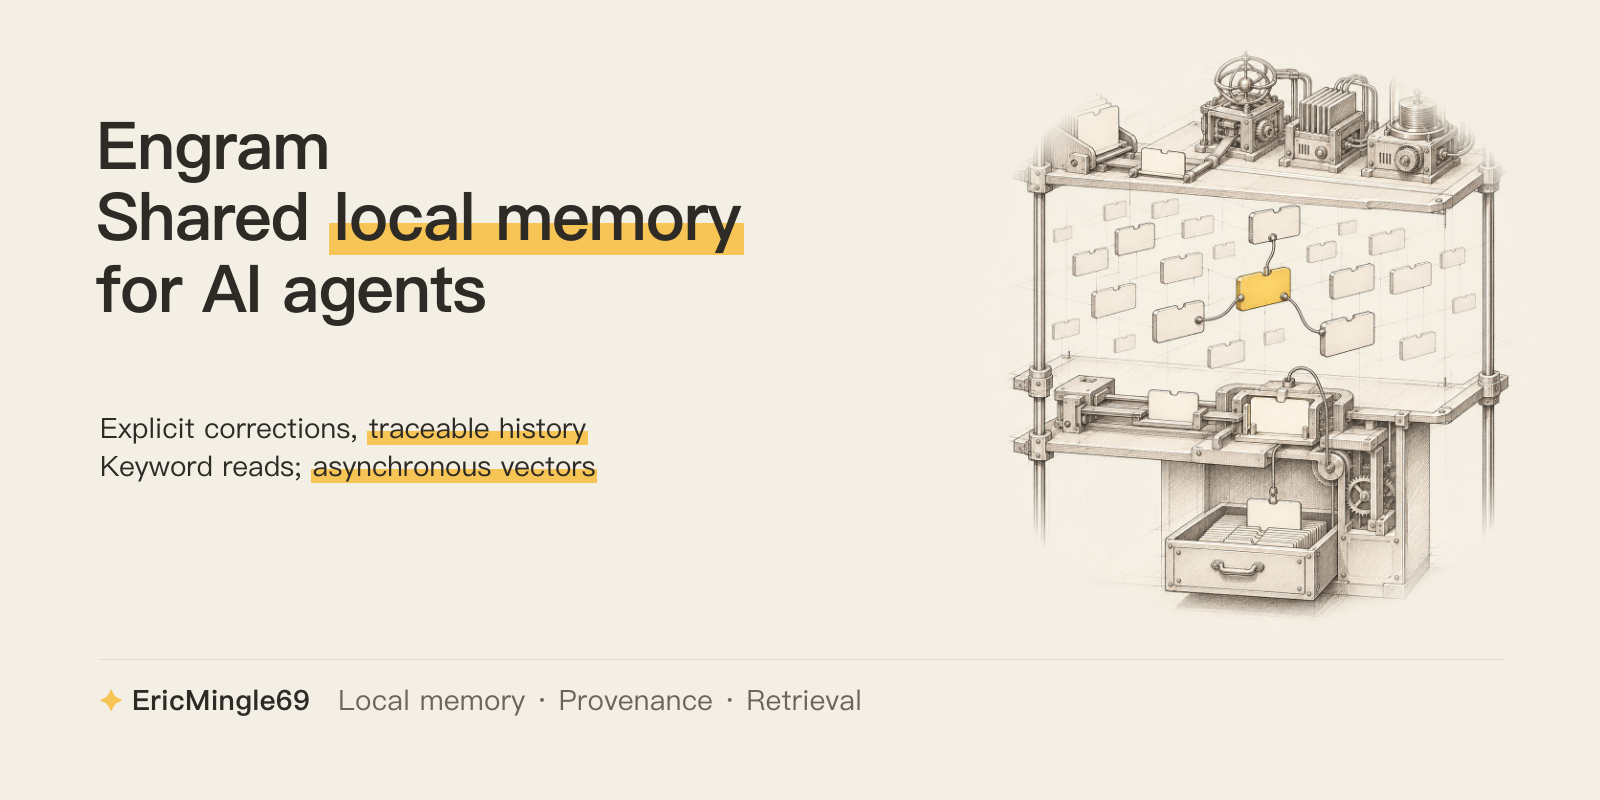
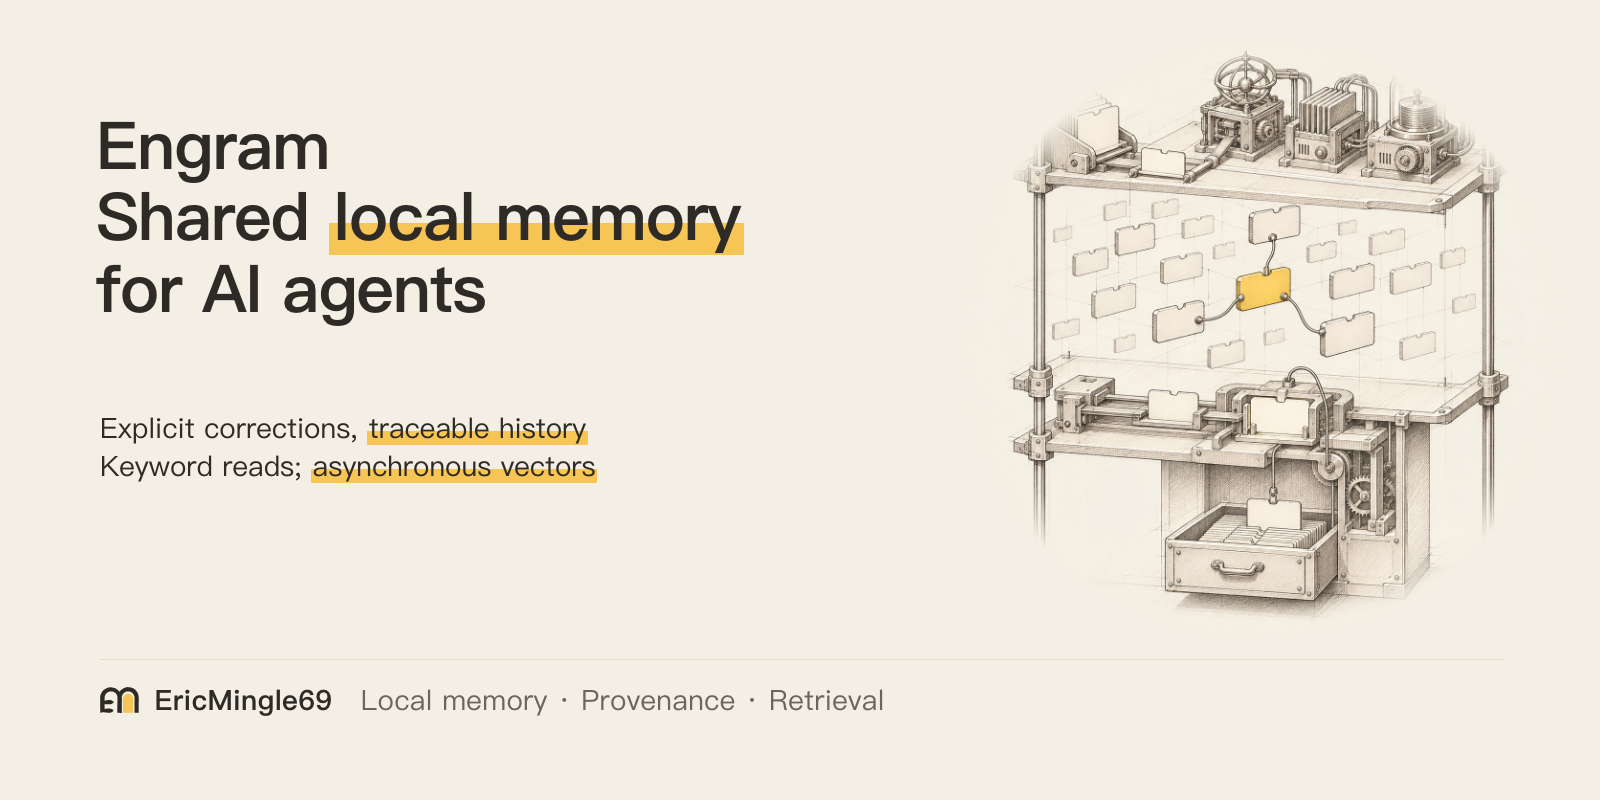
docs: adopt theme-aware EM signature for 0.4.2

Changed region(s): [[0.0625, 0.8438, 0.5625, 0.9062]]

diff --git a/scripts/publication_check.py b/scripts/publication_check.py
@@ -41,7 +41,7 @@ TEXT_SUFFIXES = frozenset({
     ".js", ".mjs", ".cjs", ".ts", ".tsx", ".jsx", ".svg", ".sql",
 })
 # Reviewed generated covers only; any changed image requires visual review.
[2 lines of base64/hex data omitted]
 
 TEXT_NAMES = frozenset({"LICENSE", "NOTICE", "COPYING", "Makefile", ".gitignore", ".gitattributes", ".editorconfig", ".python-version"})
 UUID = re.compile(r"\b[0-9a-f]{8}-[0-9a-f]{4}-[0-9a-f]{4}-[0-9a-f]{4}-[0-9a-f]{12}\b", re.IGNORECASE)

diff --git a/tests/test_mcp_profiles.py b/tests/test_mcp_profiles.py
@@ -171,7 +171,7 @@ def test_official_sdk_stdio_profile(tmp_path):
                     result = await session.initialize()
                     assert result.serverInfo.name == "engram-claude"
                     assert result.serverInfo.title == "Engram Claude"
-                    assert result.serverInfo.version == "0.4.1"
+                    assert result.serverInfo.version == "0.4.2"
                     listed = await session.list_tools()
                     assert {item.name for item in listed.tools} == {
                         item["name"] for item in tool_descriptors()

diff --git a/tests/test_mcp_claude_remote.py b/tests/test_mcp_claude_remote.py
@@ -58,7 +58,7 @@ def test_http_profile_identity_and_shared_data(tmp_path):
             )
             expected_name = "engram-claude" if profile == "claude" else "engram"
             assert initialized["serverInfo"]["name"] == expected_name
-            assert initialized["serverInfo"]["version"] == "0.4.1"
+            assert initialized["serverInfo"]["version"] == "0.4.2"
             if profile == "claude":
                 assert initialized["instructions"] == CLAUDE_PROFILE.instructions
                 saved = call(client, "remember", {"body": "isolated shared profile"})

diff --git a/src/engram/mcp/server.py b/src/engram/mcp/server.py
@@ -22,7 +22,7 @@ from engram.mcp.tools import ToolContext, call_tool, tool_descriptors
 
 PROTOCOL_VERSION = "2025-06-18"
 SERVER_NAME = "engram"
-SERVER_VERSION = "0.4.1"
+SERVER_VERSION = "0.4.2"
 INSTRUCTIONS = DEFAULT_PROFILE.instructions
 
 PARSE_ERROR = -32700

diff --git a/README.en.md b/README.en.md
@@ -6,7 +6,7 @@
 <p align="center"><a href="docs/architecture.md">Architecture</a> · <a href="docs/research-directions.md">Research</a> · <a href="CHANGELOG.md">Changelog</a> · <a href="CONTRIBUTING.md">Contributing</a></p>
 <p align="center">
 <img alt="MIT" src="https://img.shields.io/badge/license-MIT-F6C555?style=flat-square&amp;labelColor=2E2A26">
-<img alt="Version" src="https://img.shields.io/badge/version-0.4.1-6B655C?style=flat-square&amp;labelColor=2E2A26">
+<img alt="Version" src="https://img.shields.io/badge/version-0.4.2-6B655C?style=flat-square&amp;labelColor=2E2A26">
 <img alt="Python" src="https://img.shields.io/badge/Python-3.13%2B-6B655C?style=flat-square&amp;labelColor=2E2A26">
 <img alt="SQLite" src="https://img.shields.io/badge/storage-SQLite-A8A196?style=flat-square&amp;labelColor=2E2A26">
 </p>
@@ -14,9 +14,9 @@
 
 # Engram · Shared local knowledge for agents
 
-Engram 0.4.1 keeps long-term knowledge in a local SQLite database shared by different agents. Writers provide content; classification and vectors are completed later. Explicit corrections preserve provenance while reads distinguish currently applicable information from original history.
+Engram 0.4.2 keeps long-term knowledge in a local SQLite database shared by different agents. Writers provide content; classification and vectors are completed later. Explicit corrections preserve provenance while reads distinguish currently applicable information from original history.
 
-Earlier public code declared 0.1.0 and had no formal release tags. Version 0.4.0 first packaged the current core as public source; 0.4.1 updates only CI, documentation, and its publication checks. Intermediate development is described as milestones, without inventing 0.2/0.3 releases. See the [changelog](CHANGELOG.md), [architecture](docs/architecture.md), [evolution](docs/evolution.md), and [research directions](docs/research-directions.md).
+Earlier public code declared 0.1.0 and had no formal release tags. Version 0.4.0 first packaged the current core as public source; 0.4.1 updated CI, documentation, and its publication checks, and 0.4.2 updates the signature and covers. Intermediate development is described as milestones, without inventing 0.2/0.3 releases. See the [changelog](CHANGELOG.md), [architecture](docs/architecture.md), [evolution](docs/evolution.md), and [research directions](docs/research-directions.md).
 
 
 ## Features
@@ -145,7 +145,7 @@ readme-assets/ Cover assets
 
 ---
 
-Documentation: **✦ EricMingle69** · [Ming-Sir-69](https://github.com/Ming-Sir-69)
+Maintained by <picture><source media="(prefers-color-scheme: dark)" srcset="readme-assets/em-logo-dark.svg"><img src="readme-assets/em-logo-light.svg" alt="EM" height="13"></picture> <b>EricMingle69</b> · <a href="https://github.com/Ming-Sir-69">Ming-Sir-69</a><br>
 
 [MIT License](LICENSE) · Copyright (c) 2026 Eric Mingle.
 

diff --git a/README.md b/README.md
@@ -6,7 +6,7 @@
 <p align="center"><a href="docs/architecture.md">架构</a> · <a href="docs/research-directions.md">研究方向</a> · <a href="CHANGELOG.md">版本记录</a> · <a href="CONTRIBUTING.md">贡献</a></p>
 <p align="center">
 <img alt="MIT" src="https://img.shields.io/badge/license-MIT-F6C555?style=flat-square&amp;labelColor=2E2A26">
-<img alt="Version" src="https://img.shields.io/badge/version-0.4.1-6B655C?style=flat-square&amp;labelColor=2E2A26">
+<img alt="Version" src="https://img.shields.io/badge/version-0.4.2-6B655C?style=flat-square&amp;labelColor=2E2A26">
 <img alt="Python" src="https://img.shields.io/badge/Python-3.13%2B-6B655C?style=flat-square&amp;labelColor=2E2A26">
 <img alt="SQLite" src="https://img.shields.io/badge/storage-SQLite-A8A196?style=flat-square&amp;labelColor=2E2A26">
 </p>
@@ -14,9 +14,9 @@
 
 # Engram · Agent 共用本地知识库
 
-Engram 0.4.1 把长期知识保存在本机 SQLite 中，供不同 Agent 使用同一份事实源。写入方提供内容，分类与向量在后续补全；明确纠正形成可追溯关系，读取时区分当前适用内容与历史原文。
+Engram 0.4.2 把长期知识保存在本机 SQLite 中，供不同 Agent 使用同一份事实源。写入方提供内容，分类与向量在后续补全；明确纠正形成可追溯关系，读取时区分当前适用内容与历史原文。
 
-此前公开代码标为 0.1.0，没有正式版本标签。0.4.0 将当前核心整理为公开源码，0.4.1 只更新 CI、文档及其发布检查；历史阶段按里程碑描述，不补造 0.2/0.3 发布。见 [版本变化](CHANGELOG.md)、[架构](docs/architecture.md)、[演化历史](docs/evolution.md) 和 [研究方向](docs/research-directions.md)。
+此前公开代码标为 0.1.0，没有正式版本标签。0.4.0 将当前核心整理为公开源码，0.4.1 更新 CI、文档及其发布检查，0.4.2 更新署名与封面；历史阶段按里程碑描述，不补造 0.2/0.3 发布。见 [版本变化](CHANGELOG.md)、[架构](docs/architecture.md)、[演化历史](docs/evolution.md) 和 [研究方向](docs/research-directions.md)。
 
 
 ## 主要功能
@@ -145,7 +145,7 @@ readme-assets/ 封面素材
 
 ---
 
-文档维护：**✦ EricMingle69** · [Ming-Sir-69](https://github.com/Ming-Sir-69)
+文档维护：<picture><source media="(prefers-color-scheme: dark)" srcset="readme-assets/em-logo-dark.svg"><img src="readme-assets/em-logo-light.svg" alt="EM" height="13"></picture> <b>EricMingle69</b> · <a href="https://github.com/Ming-Sir-69">Ming-Sir-69</a><br>
 
 [MIT License](LICENSE) · Copyright (c) 2026 Eric Mingle.
 

diff --git a/PERSONAL-NOTICE.md b/PERSONAL-NOTICE.md
@@ -1,7 +1,7 @@
-# ✦ EricMingle69 · 个人维护与授权说明
+# EricMingle69 · 个人维护与授权说明
 
 **GitHub 维护账户：** [Ming-Sir-69](https://github.com/Ming-Sir-69)  
-**文档身份标志：** ✦ EricMingle69
+**文档身份标志：** <picture><source media="(prefers-color-scheme: dark)" srcset="readme-assets/em-logo-dark.svg"><img src="readme-assets/em-logo-light.svg" alt="EM" height="12"></picture> EricMingle69
 
 ## 署名的含义
 
@@ -19,7 +19,7 @@
 
 ## Personal identity and permissions
 
-The GitHub maintainer is [Ming-Sir-69](https://github.com/Ming-Sir-69). **✦ EricMingle69** identifies the maintenance of this repository's documentation, bilingual navigation and header artwork. Third-party code, authors, trademarks and materials keep their original attribution. This mark does not claim their ownership or grant endorsement, account, device or service access.
+The GitHub maintainer is [Ming-Sir-69](https://github.com/Ming-Sir-69). <picture><source media="(prefers-color-scheme: dark)" srcset="readme-assets/em-logo-dark.svg"><img src="readme-assets/em-logo-light.svg" alt="EM" height="12"></picture> EricMingle69 identifies the maintenance of this repository's documentation, bilingual navigation and header artwork. Third-party code, authors, trademarks and materials keep their original attribution. This mark does not claim their ownership or grant endorsement, account, device or service access.
 
 Where an existing license already names this maintainer, EricMingle69 is the personal documentation alias of Eric Mingle / Ming-Sir-69, not a separate third-party copyright holder.
 

diff --git a/docs/evolution/0.4.2.md b/docs/evolution/0.4.2.md
@@ -1,0 +1,19 @@
+# Engram 0.4.2 · EM signature
+
+## Problem
+The covers and document signature need the maintainer's approved EM logo.
+
+## Architecture and interface
+Replace four covers and add two theme-aware tight SVG logos. Package and service versions advance together; runtime behavior is unchanged.
+
+## Decisions and alternatives
+Use supplied cover exports and inline logo fragments. Retain exact-path SHA-256 cover exceptions and existing publication boundaries.
+
+## Research hypotheses
+Consistent signatures may improve visual recognition; this presentation change does not claim measured user benefit.
+
+## Validation and limits
+Run the complete synthetic suite, lint, publication boundary and version checks. Inspect the cover exports and the rendered signature under both themes. Hashes verify image identity, not visual meaning.
+
+## Next
+Review the branding PR before merge. No automatic merge or release is requested.

diff --git a/CHANGELOG.md b/CHANGELOG.md
@@ -1,5 +1,10 @@
 # Changelog
 
+## [0.4.2] - 2026-11-17
+
+- Replace the documentation signature with theme-aware EM logos and updated covers.
+- Refresh exact cover hashes and the publication allowlist; runtime behavior is unchanged.
+
 ## [0.4.1] - 2026-11-16
 
 - Complete all 16 related-study citations, dependency/model references, and documented maintenance/link semantics after editorial review; remove unused header assets.

diff --git a/docs/evolution.md b/docs/evolution.md
@@ -17,3 +17,7 @@
 ## 0.4.1 · Documentation
 
 Bilingual presentation and theme-aware covers; runtime behavior unchanged. See [release notes](evolution/0.4.1.md).
+
+## 0.4.2 · EM signature
+
+Updated covers and theme-aware inline logo. See [release notes](evolution/0.4.2.md).
